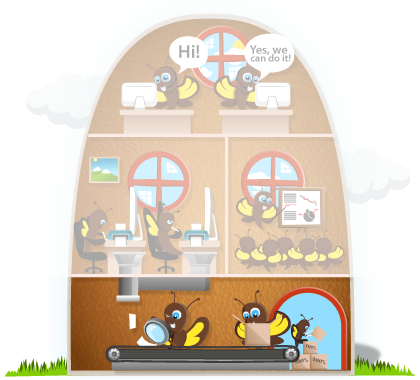
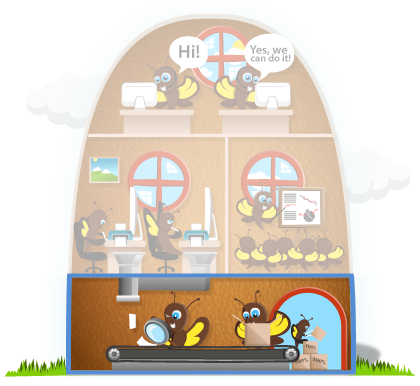
Homepage fixes and additions: Our process image Texts when hovering on the bee hive Changed bee images to be with border Changed floor to switch across the whole image (instead of just inside the hive)

diff --git a/homepage.js b/homepage.js
@@ -20,7 +20,21 @@
     $('#homepage-wrapper .floor').on('mouseover', function(e) {
       t = $(this);
       src = t.data('image-over');
-      t.siblings('img').attr('src', src);
+      t.siblings('img.bee-image').attr('src', src);
+      t.siblings('.our-process').hide(0);
+      
+      data_text_id = t.data('text-id');
+      if (data_text_id) {
+        text_obj = $('#' + data_text_id);
+        if (text_obj.length > 0) {
+          text_obj.show(0);
+          text_wrapper = t.siblings('.bee-text-wrapper').show(0);
+          text_css = { 'top' : t.data('text-top') }
+          text_right = t.data('text-right');
+          text_wrapper.css(text_css);
+          text_wrapper.find('.floor-text').not(text_obj).hide(0);
+        }
+      }
     }).each(function(i, floor) {
       src = $(floor).data('image-over')
       if (src) {
@@ -30,9 +44,12 @@
     });
     
     $('#bee-wrapper').on('mouseleave', function(e) {
-      img = $(this).find('img');
+      t = $(this);
+      img = t.find('img.bee-image');
       orig_src = img.data('image-original');
-      img.attr('src', orig_src);      
+      img.attr('src', orig_src);
+      t.find('.our-process').show(0);
+      t.find('.bee-text-wrapper').hide(0).find('.floor-text').hide(0);
     });
     
     $('.service-item img').each(function (i, obj) {

diff --git a/style.css b/style.css
@@ -770,10 +770,52 @@ body {
 
 #homepage-wrapper #rightcolumn #bee-wrapper {
   position: relative;
+  width: 540px;
 }
 
 #homepage-wrapper #bee-wrapper .floor {
   position: absolute;
+  width: 420px;
+  left: 0;
+}
+
+#homepage-wrapper #bee-wrapper .our-process {
+  position: absolute;
+  top: 0;
+  right: 53px;
+  z-index: 100;
+}
+
+#homepage-wrapper #bee-wrapper .bee-text-wrapper {
+  position: absolute;
+  top: 0;
+  right: -35px;
+  background: url(images/homepage/bee-text-bg.png) no-repeat top left;
+  width: 155px;
+  height: 127px;
+  padding: 5px 5px 5px 30px;
+  text-align: center;
+  display: none;
+}
+
+.bee-text-wrapper p {
+  display: none;
+  font-size: 15px;
+  font-weight: bold;
+  color: #588CD8;
+}
+
+.bee-text-wrapper p#floor-text-top {
+  padding-left: 5px;
+}
+
+.bee-text-wrapper p#floor-text-middle {
+  margin-top: 3px;
+}
+
+.bee-text-wrapper p#floor-text-bottom {
+  line-height: 1.7;
+  margin-top: 8px;
 }
 
 #homepage-wrapper #all-services {

diff --git a/home.php b/home.php
@@ -21,12 +21,22 @@
   
   <div id="rightcolumn">
     <div id="bee-wrapper">
-      <img src="<?php bloginfo('template_url'); ?>/images/homepage/bee.png" data-image-original="<?php bloginfo('template_url'); ?>/images/homepage/bee.png" />
+      <img src="<?php bloginfo('template_url'); ?>/images/homepage/bee.png" data-image-original="<?php bloginfo('template_url'); ?>/images/homepage/bee.png" class="bee-image" />
       
-      <div class="floor" style="left: 85px; top: 9px; width: 248px; height: 125px;" data-image-over="<?php bloginfo('template_url'); ?>/images/homepage/bee-3.png"></div>
-      <div class="floor" style="left: 66px; top: 135px; width: 283px; height: 139px;" data-image-over="<?php bloginfo('template_url'); ?>/images/homepage/bee-2.png"></div>
-      <div class="floor" style="left: 67px; top: 275px; width: 285px; height: 100px;" data-image-over="<?php bloginfo('template_url'); ?>/images/homepage/bee-1.png"></div>
-    </div>    
+      <div class="floor" style="top: 9px; height: 125px;" data-image-over="<?php bloginfo('template_url'); ?>/images/homepage/bee-3.png" data-text-id="floor-text-top" data-text-top="0px"></div>
+      <div class="floor" style="top: 135px; height: 139px;" data-image-over="<?php bloginfo('template_url'); ?>/images/homepage/bee-2.png" data-text-id="floor-text-middle" data-text-top="135px"></div>
+      <div class="floor" style="top: 275px; height: 100px;" data-image-over="<?php bloginfo('template_url'); ?>/images/homepage/bee-1.png" data-text-id="floor-text-bottom" data-text-top="230px"></div>
+      
+      <span class="our-process">
+        <img src="<?php bloginfo('template_url'); ?>/images/homepage/our-process.png" />
+      </span>
+      
+      <div class="bee-text-wrapper">
+        <p class="floor-text" id="floor-text-top">Our professional staff of online marketers, is always willing to help you with any question.</p>
+        <p class="floor-text" id="floor-text-middle">Your order taken care by our awesome team of razor-sharp, creative and witty freelancers.</p>
+        <p class="floor-text" id="floor-text-bottom">After your order is done, we check its' quality and send you full detailed report.</p>
+      </div>
+    </div>
   </div>
   
   <div id="all-services">
